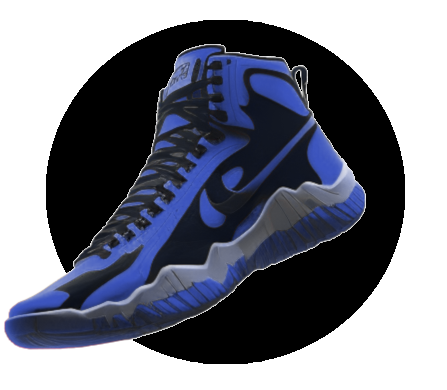
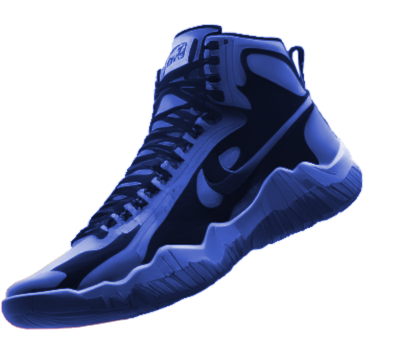
updated hero images

diff --git a/src/pages/Home.js b/src/pages/Home.js
@@ -9,7 +9,7 @@ export default function Home() {
     <>
       <div
         id="main-background"
-        className="flex flex-col justify-start  items-center w-full h-max min-h-[calc(100vh-64px)] m-0 md:flex-row md:justify-center"
+        className="flex flex-col justify-center  items-center w-full h-max min-h-[calc(100vh-64px)] m-0 md:flex-row md:justify-center"
       >
         <div className="mt-4 w-full min-w-1/2 h-4/5 flex justify-center items-center max-h-[600px] md:w-1/2 md:items-start md:mt-0">
           <div className="h-full justify-center w-full flex flex-col rounded-xl text-white text-center md:text-left  md:w-3/4">
@@ -49,7 +49,7 @@ export default function Home() {
             </div>
           </div>
         </div>
-        <div className="flex flex-col justify-center items-center gap-y-2">
+        <div className="flex flex-col justify-center items-center gap-y-6">
           <div className="justify-center hidden items-center h-max md:flex">
             <img
               key={Math.random()}
@@ -57,22 +57,22 @@ export default function Home() {
               src={`/images/hero-shoe-${activeShoe}.png`}
             />
           </div>
-          <div className="flex justify-center items-center w-full flex-wrap">
+          <div className="flex justify-center items-center w-full flex-wrap gap-x-2">
             <div
               onClick={() => {
-                if (activeShoe === "white-and-black") {
+                if (activeShoe === "white") {
                   setActiveShoe("orange");
                 } else {
-                  setActiveShoe("white-and-black");
+                  setActiveShoe("white");
                 }
               }}
             >
               <img
                 className=" w-[120px] lg:w-[160px] hover:scale-105 duration-300 cursor-pointer"
                 src={
-                  activeShoe === "white-and-black"
+                  activeShoe === "white"
                     ? "/images/hero-shoe-orange.png"
-                    : "/images/hero-shoe-white-and-black.png"
+                    : "/images/hero-shoe-white.png"
                 }
               />
             </div>

diff --git a/src/pages/Product.js b/src/pages/Product.js
@@ -43,23 +43,24 @@ export default function ProductDisplay() {
       <div className="flex justify-center items-center min-h-[calc(100vh-96px)] w-full ">
         <div className="w-[100%] flex flex-col justify-start items-center m-auto my-4 gap-y-4 md:flex-row md:w-[85%] lg:w-[75%] lg:lg:gap-x-14">
           <div className=" flex flex-col justify-center items-center w-1/2 min-w-[320px] gap-y-6 lg:items-end">
+            <div
+              className="w-full"
+              onClick={() => {
+                navigate("/collection");
+              }}
+            >
+              <img
+                alt="left-arrow-icon"
+                className="float-left  h-[28px] "
+                src="/images/left-arrow.svg"
+              />
+            </div>
             <div className="h-max w-3/5 min-w-[300px] relative ">
               <img
                 className="min-h-[300px] rounded-2xl"
                 src={currentShoe[`main_image${activeImage}`]}
                 alt={"selected-shoe"}
               />
-              <div
-                onClick={() => {
-                  navigate("/collection");
-                }}
-              >
-                <img
-                  alt="left-arrow-icon"
-                  className="absolute h-[28px] left-0 -top-[10%] md:top-0 md:-left-[25%] md:"
-                  src="/images/left-arrow.svg"
-                />
-              </div>
             </div>
             <div className="flex justify-between items-center gap-x-4 w-3/5 min-w-[300px]">
               <div
